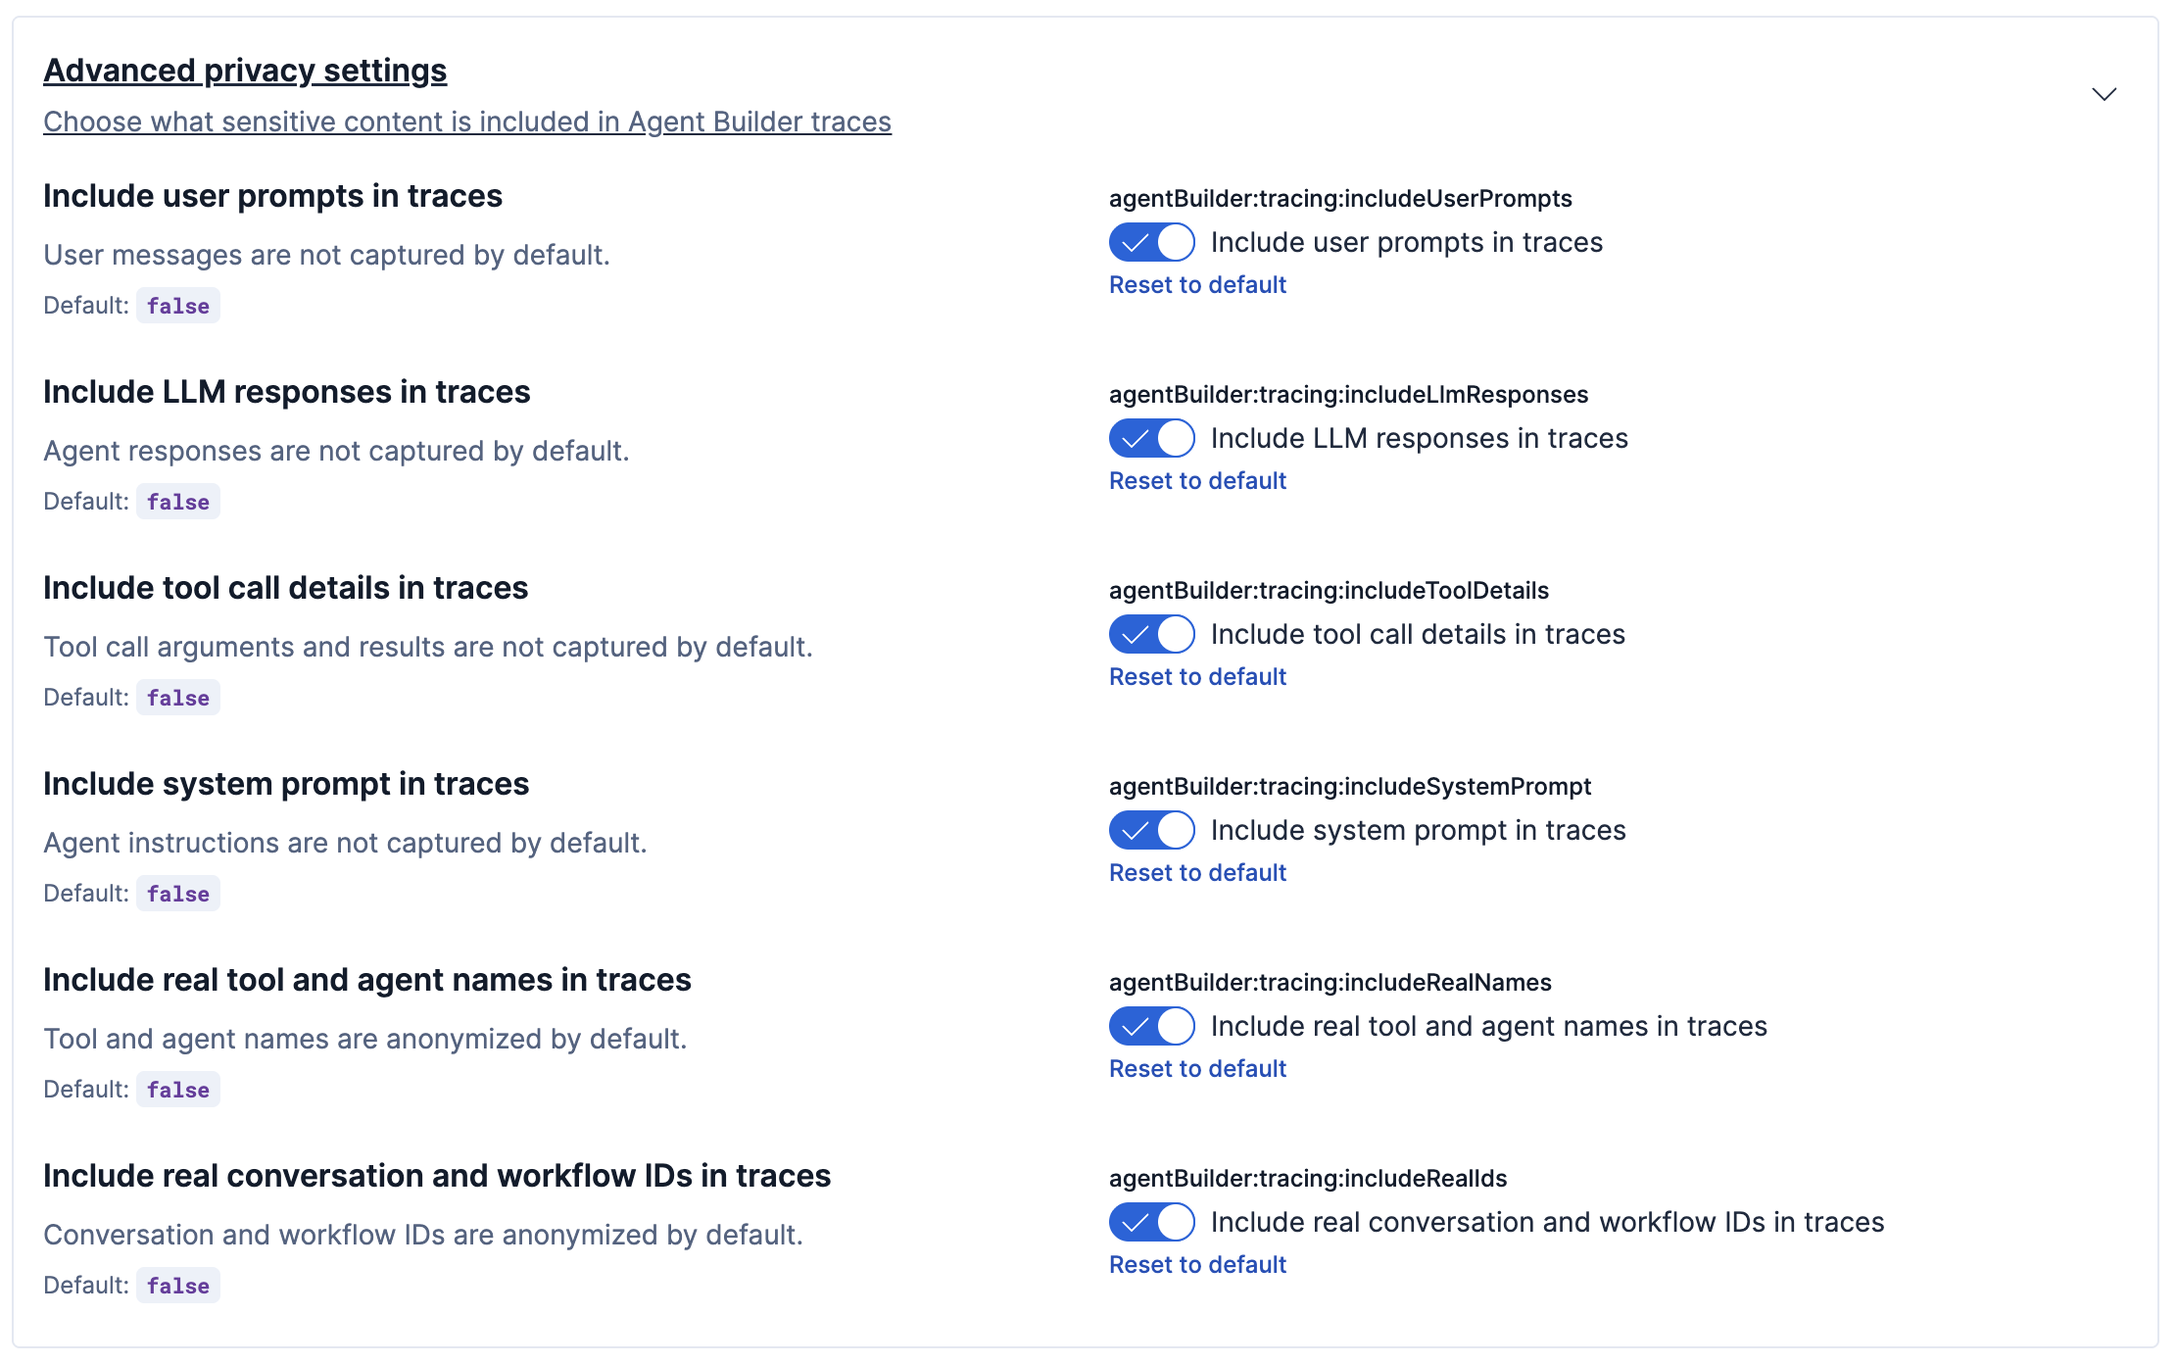
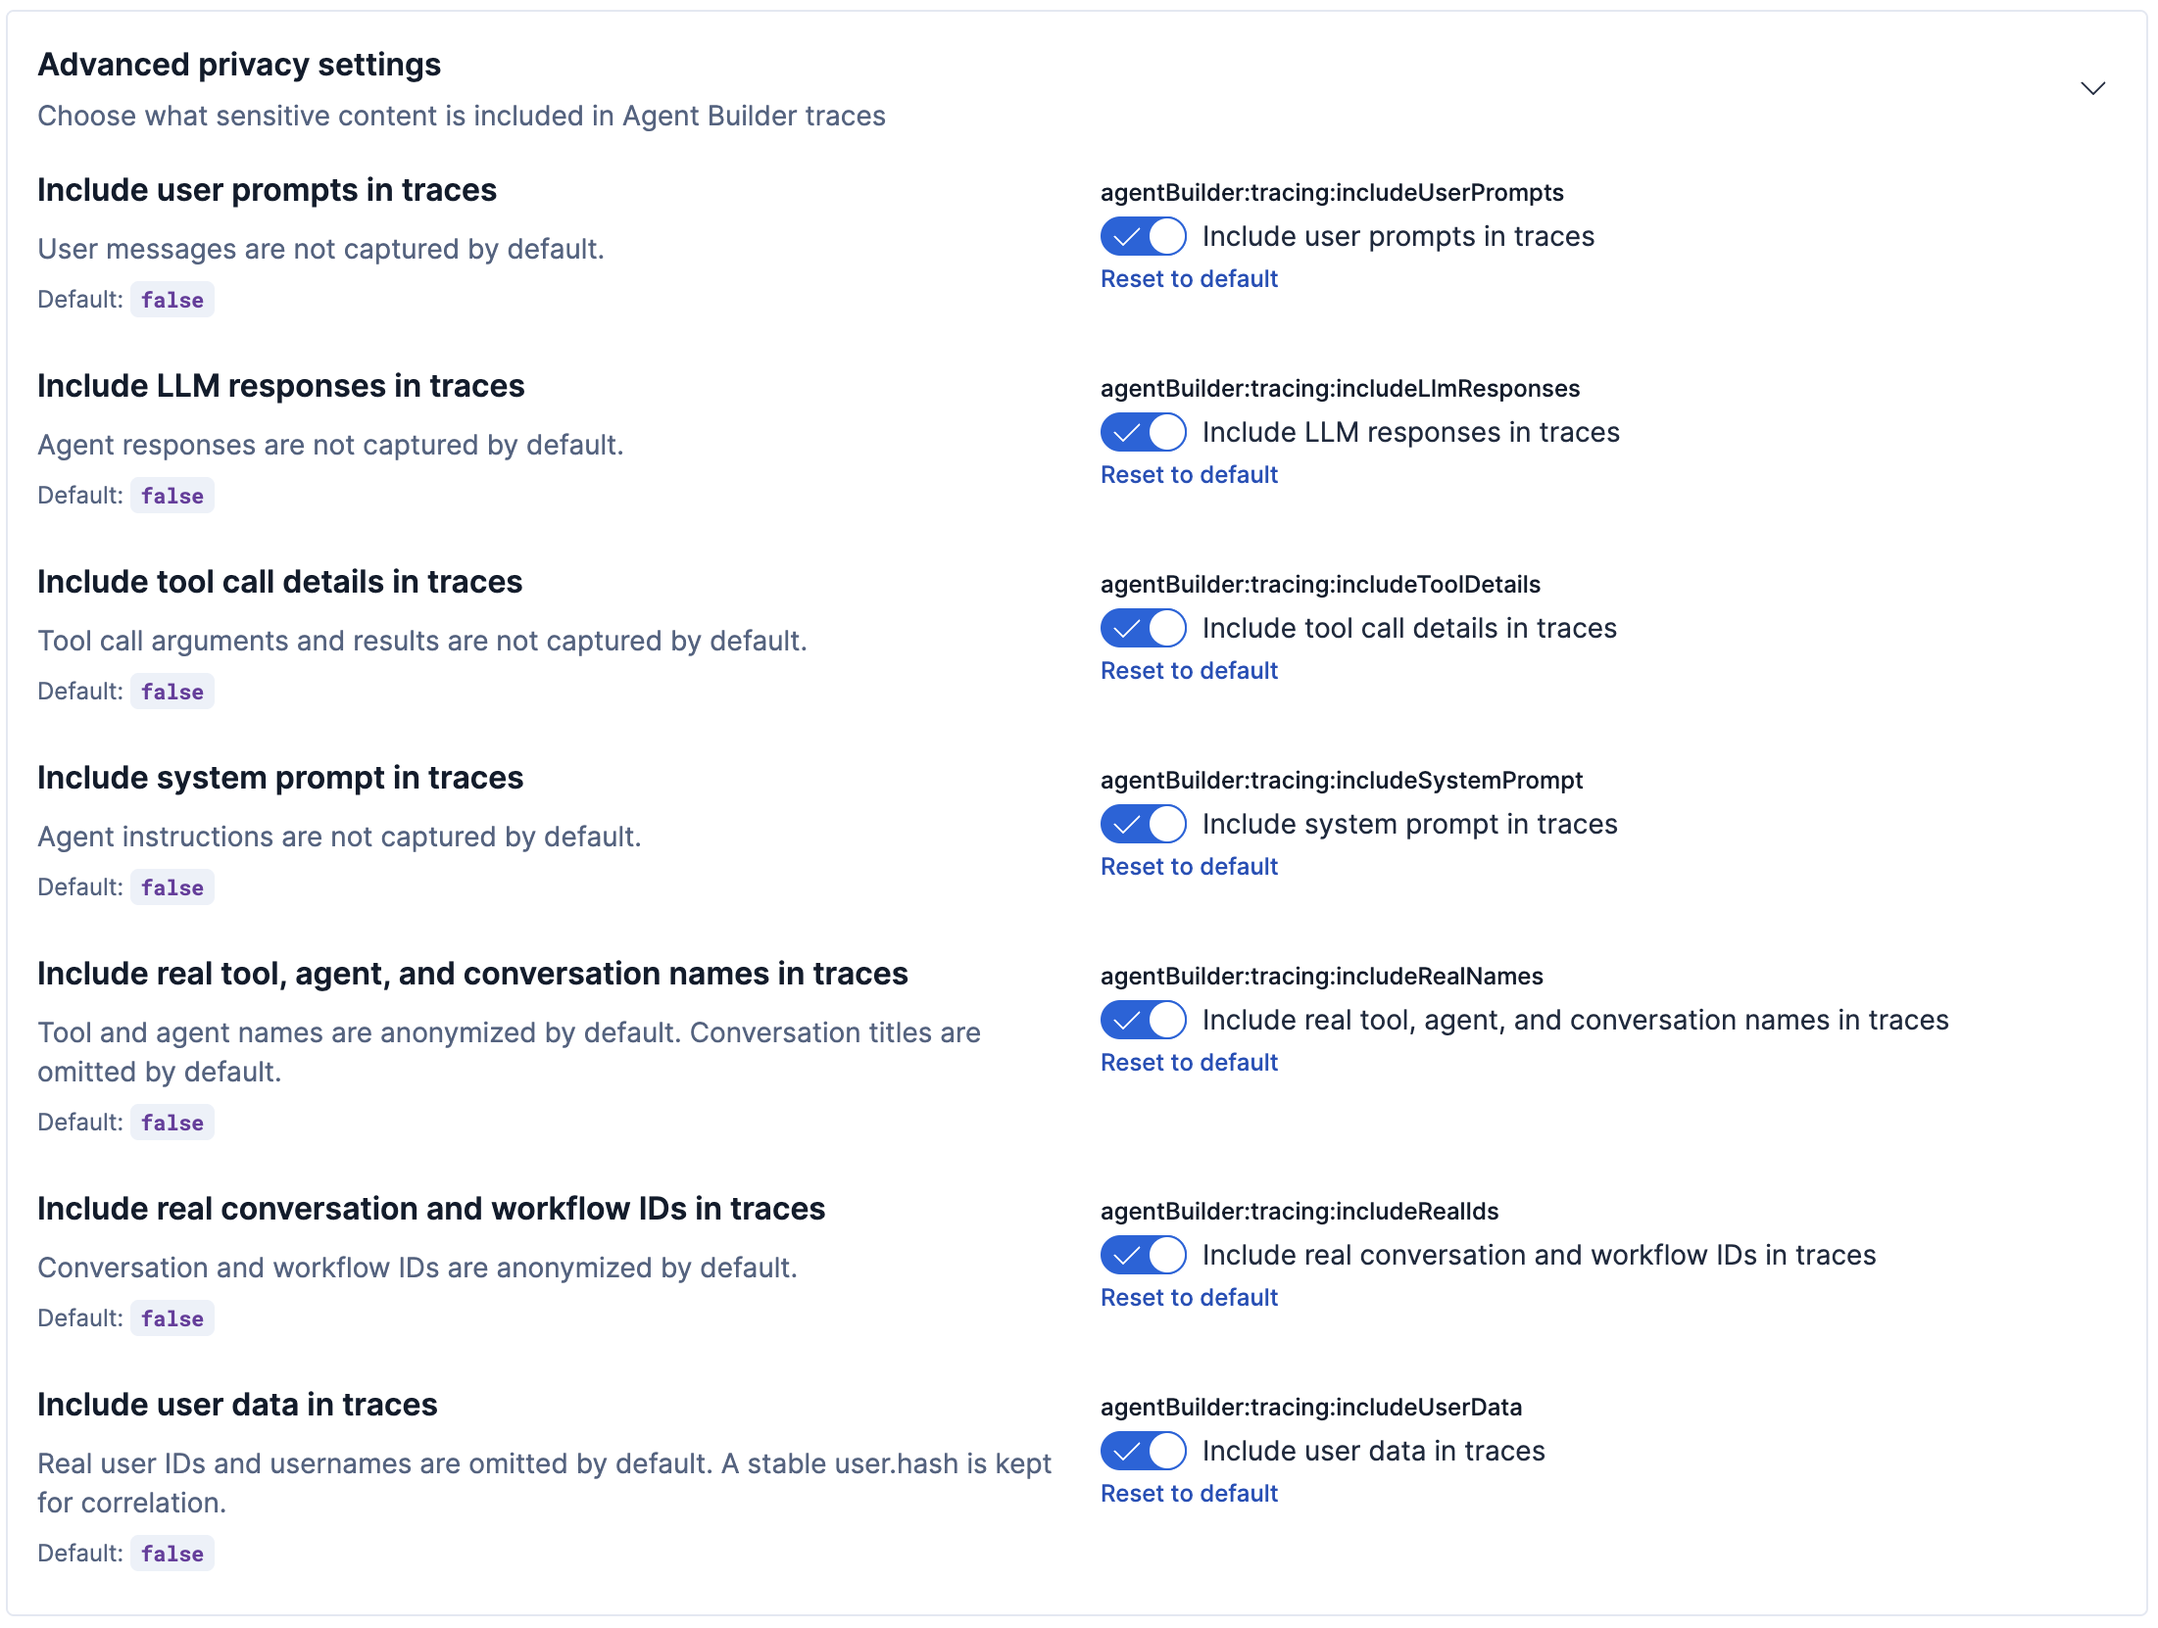
Document user data toggle and conversation title in Agent Builder traces (#8094)
## Summary

Documents two 9.6 additions to Agent Builder trace collection, both
already live on Serverless:

- `agentBuilder:tracing:includeUserData`
([kibana#282858](https://github.com/elastic/kibana/pull/282858)) — new
privacy toggle recording `user.id` and `user.name`, replacing the
`user.hash` kept by default.
- `elastic.conversation.title`
([kibana#281166](https://github.com/elastic/kibana/pull/281166)) —
conversation title span attribute, gated by `includeRealNames`.

kibana#281166 also renamed the `includeRealNames` setting, so that row
is version-scoped rather than overwritten. The page covers 9.5+ and both
labels have to coexist.

### collect-traces.md

- New `includeUserData` row, scoped `stack: ga 9.6+` / `serverless: ga`.
- `includeRealNames` row carries both the 9.5 and 9.6 labels. Corrected
its effect: it also governs workflow names, tool definitions and tool
descriptions, and rewrites span names.
- Noted that `includeRealIds` also controls the agent ID and workflow
execution ID, which its label omits.
- Added the conversation round span to the span content list. It is the
only span carrying the title and user fields.
- Documented `attributes.kibana.inference.root` as the way to select it,
since `generate_title` is also a `CHAIN` span and carries neither.
- Anonymization note now gives the concrete ID formats, and flags that
`user.id` is the one case where anonymizing changes the field name.
- Noted that setting changes affect new traces only.
[…]

diff --git a/explore-analyze/ai-features/agent-builder/collect-traces.md b/explore-analyze/ai-features/agent-builder/collect-traces.md
@@ -77,7 +77,7 @@ To change what is captured, expand **Advanced privacy settings** in the **Agent 
 
 :::{image} images/agent-builder-traces-privacy-settings.png
 :screenshot:
-:alt: The expanded Advanced privacy settings, showing six toggles for including sensitive content in traces, all turned off
+:alt: The expanded Advanced privacy settings, with a toggle for each category of sensitive content in traces
 :::
 
 | Setting | Setting ID | Effect when enabled |
@@ -86,16 +86,43 @@ To change what is captured, expand **Advanced privacy settings** in the **Agent 
 | **Include LLM responses in traces** | `agentBuilder:tracing:includeLlmResponses` | Captures agent responses. |
 | **Include tool call details in traces** | `agentBuilder:tracing:includeToolDetails` | Captures tool call arguments and results. |
 | **Include system prompt in traces** | `agentBuilder:tracing:includeSystemPrompt` | Captures agent instructions. |
-| **Include real tool and agent names in traces** | `agentBuilder:tracing:includeRealNames` | Records real tool and agent names instead of anonymized values. |
-| **Include real conversation and workflow IDs in traces** | `agentBuilder:tracing:includeRealIds` | Records real conversation and workflow IDs instead of anonymized values. |
+| **Include real tool, agent, and conversation names in traces** {applies_to}`{stack: ga 9.6+, serverless: ga}`<br>**Include real tool and agent names in traces** {applies_to}`stack: ga =9.5` | `agentBuilder:tracing:includeRealNames` | Records real tool, agent, and workflow names instead of anonymized values, and keeps the full tool definitions and descriptions.<br><br>{applies_to}`{stack: ga 9.6+, serverless: ga}` Also records the conversation title. |
+| **Include real conversation and workflow IDs in traces** | `agentBuilder:tracing:includeRealIds` | Records real conversation and workflow IDs instead of anonymized values. Also controls the agent ID and the workflow execution ID, which the setting name does not mention. |
+| **Include user data in traces** {applies_to}`{stack: ga 9.6+, serverless: ga}` | `agentBuilder:tracing:includeUserData` | Records the real user ID and username of the person who ran each conversation round, instead of a hash alone. |
 
 :::{note}
-Built-in tools and agents always appear under their real names. Anonymized names are replaced with the literal value `custom`, so every custom tool, agent, and workflow shares one value and you cannot tell them apart by name. Anonymized IDs are different: they are replaced with a stable hash, so you can still group and correlate traces by conversation or agent ID.
+Built-in tools and agents always appear under their real names. Anonymized names are replaced with the literal value `custom`, so every custom tool, agent, and workflow shares one value and you cannot tell them apart by name. Anonymized IDs are different: they are replaced with a stable hash, so you can still group and correlate traces by conversation or agent ID. A real conversation ID is a UUID, and an anonymized one is a 16-character hash, so you can tell at a glance which you are looking at. An anonymized custom agent ID keeps a `custom-` prefix, as in `custom-10a91bfdfac987f2`.
+
+User data is the exception to that pattern. Every other setting anonymizes a value in place, keeping the same field. The user fields swap instead. When **Include user data in traces** is off, the username is dropped and the user ID is replaced by a stable hash in `attributes.user.hash`. When the setting is on, `attributes.user.id` and `attributes.user.name` are recorded and `attributes.user.hash` is absent. Account for that if you build dashboards that group by user.
 :::
+
+On {{ech}} and {{serverless-full}}, the username recorded for a user who signs in with {{ecloud}} SSO can be an opaque {{ecloud}} identifier rather than a readable name, depending on how SSO is configured. For the field details and how to resolve a display name, refer to [Conversation round attributes](agent-traces-dashboard.md#conversation-round-attributes).
+
+Changing a privacy setting affects only traces recorded after the change. Existing traces are not rewritten.
+
+::::{applies-switch}
+
+:::{applies-item} {stack: ga 9.6+, serverless: ga}
+{{agent-builder}} reads these settings at the start of each conversation, so a change takes effect on the next conversation you start. Conversations already in progress keep the settings they started with.
+:::
+
+:::{applies-item} stack: ga =9.5
+{{agent-builder}} refreshes these settings every 30 seconds, so allow up to that long for a change to take effect, then run a new conversation round to see it.
+:::
+
+::::
 
 Content is stored across different span types:
 - **`chat` spans**: Store prompts, responses, and the system prompt in the `attributes.gen_ai.input.messages`, `attributes.gen_ai.output.messages`, and `attributes.gen_ai.system_instructions` attributes.
 - **`execute_tool` spans**: Store tool call details in `attributes.gen_ai.tool.call.arguments` and `attributes.gen_ai.tool.call.result`.
+- **The conversation round span** {applies_to}`{stack: ga 9.6+, serverless: ga}`: Stores the conversation title and the user identity. Only the root `invoke_agent` span carries these, one per conversation round. The nested agent, model, and tool spans do not. For the field names, the settings each one depends on, and how to select that span, refer to [Conversation round attributes](agent-traces-dashboard.md#conversation-round-attributes).
+
+Two limits apply to the conversation title:
+
+- It is recorded only for runs that create or continue a saved conversation. Chats always save, and so do runs through the conversation APIs. The [`ai.agent` workflow step](agents-and-workflows.md#use-ai-agent-workflow-step) is the exception: unless it creates a conversation or continues an existing one, nothing is saved and the run has no title attribute.
+- Renaming a conversation does not update titles already recorded. Rounds recorded before the rename keep the old title, and the new one appears from the next round onward. A conversation's rounds share the same `attributes.gen_ai.conversation.id`, so to find the current title, take the title from its most recent round.
+
+Anonymization also rewrites the span name, not only the attributes. A custom agent's round appears as `invoke_agent custom` rather than `invoke_agent <your agent name>`, a custom tool call appears as `execute_tool custom`, and a workflow appears as `invoke_workflow custom`. Filters that match on a real name in `span.name` return nothing while the names are anonymized.
 
 Anyone who can read the trace data stream can read this content, so review [Grant access to trace data](#grant-access-to-trace-data) before you turn these settings on. For the field-level details, refer to [Message content attributes](agent-traces-dashboard.md#message-content-attributes).
 
@@ -104,6 +131,8 @@ Anyone who can read the trace data stream can read this content, so review [Gran
 Trace data is stored in the `traces-agent_builder.otel-*` data stream. To read it, a role needs `read` and `view_index_metadata` on that pattern.
 
 Access is granted at the index level. Any user who can read these data streams can read all collected traces, so trace access is not scoped per user. To control who can read traces, configure index privileges through roles in **Stack Management → Roles**.
+
+{applies_to}`{stack: ga 9.6+, serverless: ga}` When **Include user data in traces** is on, traces identify who ran each conversation round. Anyone who can read the data stream can see which user ran which round, so review this section before you turn that setting on.
 
 For the full privilege model, including {{kib}} feature and cluster privileges, refer to [Permissions and access control](permissions.md#read-trace-data).
 

diff --git a/explore-analyze/ai-features/agent-builder/agent-traces-dashboard.md b/explore-analyze/ai-features/agent-builder/agent-traces-dashboard.md
@@ -98,6 +98,8 @@ Each document is a span. Filter on the `span.name` field to select a kind of age
 | Agent executions | `span.name LIKE "invoke_agent *"` and `attributes.elastic.inference.span.kind == "AGENT"` |
 | Tool calls | `span.name LIKE "execute_tool *"`. For failures only, add `status.code == "Error"` |
 
+While the real-names [trace privacy setting](collect-traces.md#trace-privacy-settings) is off, a custom agent, tool, or workflow appears as `invoke_agent custom`, `execute_tool custom`, or `invoke_workflow custom`. A filter on the real name returns nothing.
+
 ### Generative AI attributes
 
 These fields contain the details the dashboard aggregates. Generative AI attributes use the `attributes.` prefix.
@@ -115,6 +117,55 @@ These fields contain the details the dashboard aggregates. Generative AI attribu
 | `duration` | Span duration in nanoseconds (root field). Divide by 1,000,000,000 for seconds |
 | `status.code` | Span status, for example `Error` (root field) |
 | `@timestamp` | When the span started |
+
+### Conversation round attributes [conversation-round-attributes]
+
+```{applies_to}
+stack: ga 9.6+
+serverless: ga
+```
+
+A conversation round records who ran it and, when the conversation is saved, its title. Query these fields to attribute activity to a user, or to find a conversation by its title. The overview dashboard does not show them.
+
+#### Select the conversation round
+
+These fields are on the root conversation round span. To attribute a nested span to a user or a conversation title, join on `trace_id`.
+
+Filter on the span name and the span kind:
+
+```esql
+FROM traces-agent_builder.otel-*
+| WHERE span.name LIKE "invoke_agent *" <1>
+| WHERE attributes.elastic.inference.span.kind == "CHAIN" <2>
+```
+
+1. A name prefix alone also returns nested agent runs. An anonymized round is still named `invoke_agent custom`, so the filter matches anonymized names.
+2. `CHAIN` alone also returns workflow spans and the span that generates the conversation title. Neither carries these fields.
+
+#### Conversation round fields
+
+Each row names the field, what it contains, and the trace privacy setting it depends on.
+
+| Field | Description | Required setting |
+|---|---|---|
+| `attributes.user.id` | User profile ID of the user who ran the round, or a stable ID prefixed with `realm:` | **Include user data in traces** |
+| `attributes.user.name` | Username of the user who ran the round | **Include user data in traces** |
+| `attributes.user.hash` | Stable hash of the user ID, recorded only when **Include user data in traces** is off | None |
+| `attributes.elastic.conversation.title` | Saved conversation title | **Include real tool, agent, and conversation names in traces** |
+
+#### Break activity down by user
+
+Use the case that matches your privacy setting and sign-in method:
+
+- **Hashed identity.** `attributes.user.hash` is stable for a user across conversations, so you can break trace data down per user without recording anyone's identity. Group by `attributes.user.hash` for per-user token or latency dashboards, and leave **Include user data in traces** off.
+- **Named user.** Turn **Include user data in traces** on when you need to attribute activity to a person. The trace then records `attributes.user.id` and `attributes.user.name`. `attributes.user.hash` is absent.
+- **ID prefixed with `realm:`.** With **Include user data in traces** on, a signed-in user who has no profile is recorded in `attributes.user.id` as a stable ID that starts with `realm:`. The [user profile API](https://www.elastic.co/docs/api/doc/elasticsearch/operation/operation-security-get-user-profile) returns no profile for that ID.
+- **API key with no profile.** Some API key authentication has no user profile. Those rounds have no `attributes.user.id` and no `attributes.user.hash`. They stay in the trace and fall outside any per-user breakdown.
+- **{{ecloud}} SSO.** For users who sign in with {{ecloud}} SSO, which is standard on {{ech}} and {{serverless-full}}, `attributes.user.name` can be an opaque {{ecloud}} identifier rather than a readable username, depending on how SSO is configured. To get a display name, look up `attributes.user.id` with the [user profile API](https://www.elastic.co/docs/api/doc/elasticsearch/operation/operation-security-get-user-profile) and read `user.full_name` or `user.email`.
+
+#### Total tokens by user
+
+To calculate total tokens by user, combine the model call spans with the conversation round. Token counts are on the model call spans, and the user fields are on the round. Both spans share `trace_id` and `attributes.gen_ai.conversation.id`. A query that reads only one of those span kinds returns no per-user token total.
 
 ### Message content attributes [message-content-attributes]
 
@@ -139,8 +190,11 @@ Note that:
 #### Other content attributes
 
 Spans also contain other content-bearing attributes:
+
 - The `chat` spans record the definitions of the tools offered to the model in `attributes.gen_ai.tool.definitions` (including each tool's description and parameter schema).
 - The `execute_tool` spans record the tool's own description in `attributes.gen_ai.tool.description`.
+
+Both depend on the real-names [trace privacy setting](collect-traces.md#trace-privacy-settings), which is off by default. Unlike tool and agent names, these two attributes are dropped entirely rather than anonymized, because they hold free-form text that cannot be selectively masked.
 
 #### JSON payload structure
 
